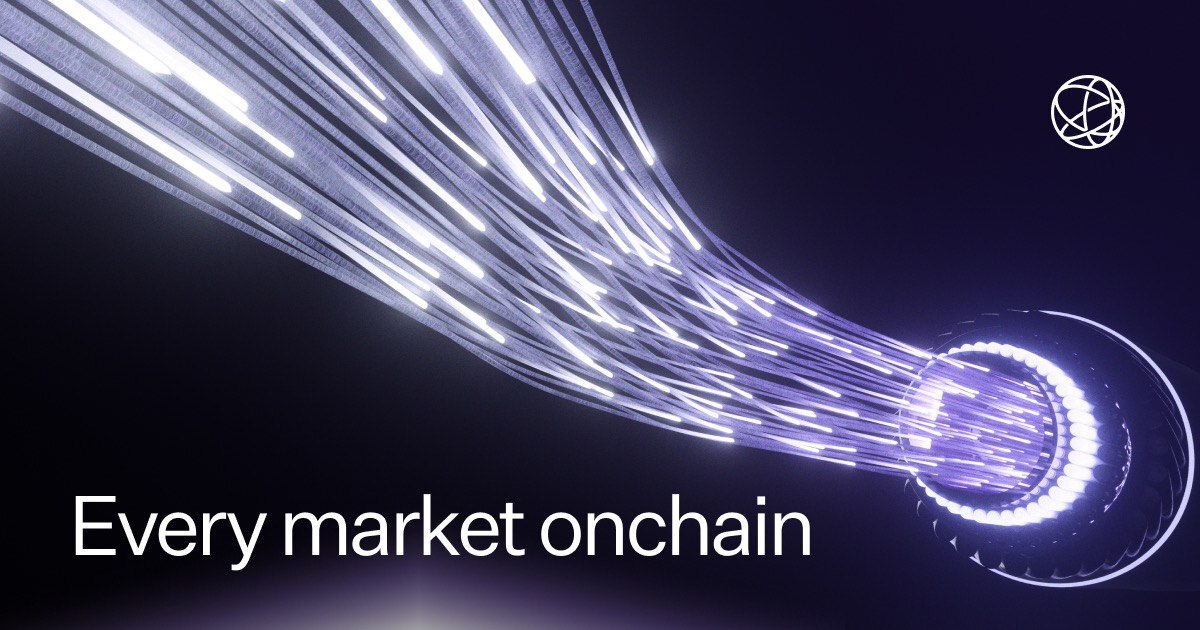
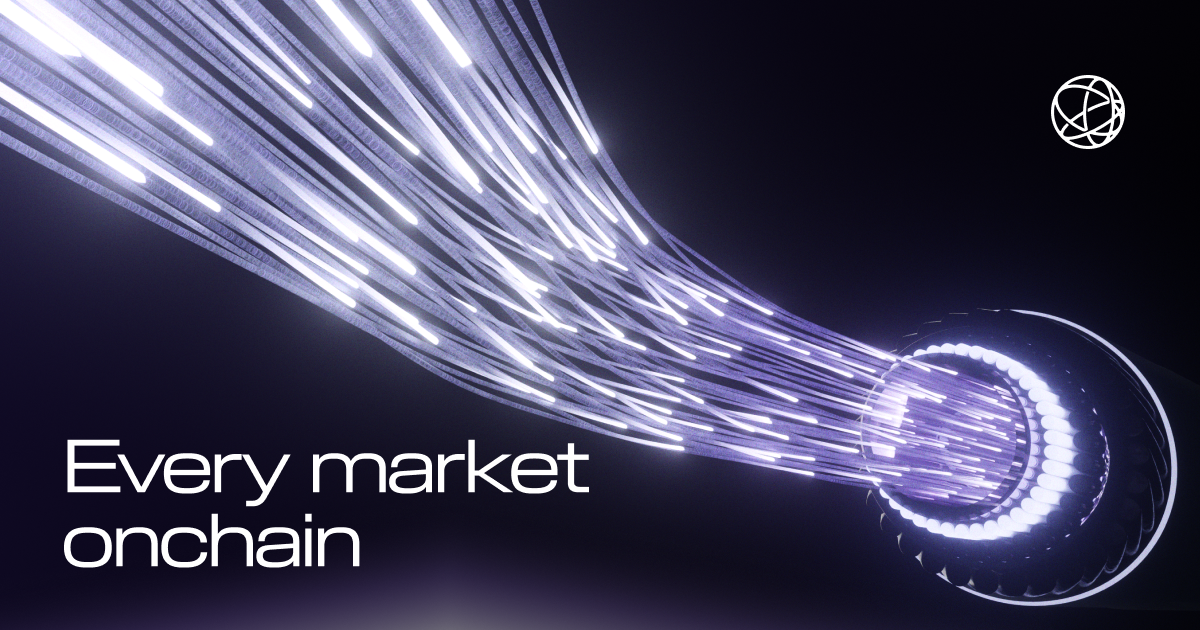
Merge pull request #161 from celestiaorg/feat/og-image-update
Feat/og image update

Pull request: Feat/og image update

diff --git a/src/components/Nav/data.js b/src/components/Nav/data.js
@@ -26,16 +26,16 @@ const MenuData = [
 		type: "dropdown",
 		items: [
 			{
-				name: "Start with the dev portal",
+				name: "Agentic Skill",
+				url: "https://docs.celestia.org/SKILL.md",
+			},
+			{
+				name: "Get Started",
 				url: "/build/",
 			},
 			{
-				name: "Read the docs",
+				name: "Read the Docs",
 				url: "https://docs.celestia.org/",
-			},
-			{
-				name: "View the GitHub repos",
-				url: "https://github.com/celestiaorg",
 			},
 		],
 	},

diff --git a/src/components/FooterNew/data.js b/src/components/FooterNew/data.js
@@ -18,11 +18,7 @@ export const footerLinksNew = [
   {
     column: 3,
     links: [
-      {
-        name: "Brand",
-        url: "https://company-223625.frontify.com/d/JoSwaZS4Mjpj/guidelines#/basics/logos",
-      },
-      { name: "Press", url: "/press/" },
+{ name: "Press", url: "/press/" },
       { name: "Careers", url: "/careers/" },
       { name: "Community", url: "/community/" },
     ],

diff --git a/src/components/HeaderNew/data.js b/src/components/HeaderNew/data.js
@@ -15,6 +15,10 @@ const MenuDataNew = [
 		items: [
 			{
 				name: "Agent Skill",
+				url: "https://docs.celestia.org/SKILL.md",
+			},
+			{
+				name: "Get Started",
 				url: "/build/",
 			},
 			{

diff --git a/src/components/NewHomepage/HomepageHero.js b/src/components/NewHomepage/HomepageHero.js
@@ -67,6 +67,8 @@ const HomepageHero = () => {
           />
           {/* Top gradient fade */}
           <div className="absolute top-0 left-0 right-0 h-[30%] z-[1] bg-gradient-to-b from-[#050208] to-transparent pointer-events-none" />
+          {/* Bottom gradient fade — hides FibreZone button peeking below hero */}
+          <div className="absolute bottom-0 left-0 right-0 h-[25%] z-[1] bg-gradient-to-t from-[#050208] to-transparent pointer-events-none" />
         </div>
       </motion.div>
 

diff --git a/src/components/NewPages/Contact/ContactHero.js b/src/components/NewPages/Contact/ContactHero.js
@@ -66,7 +66,7 @@ const ContactHero = () => {
               <br />
               Touch
             </h1>
-            <Button href="#team" variant="pill-outline" size="pill-md">
+            <Button href="#team" variant="pill-primary" size="pill-md">
               Our Team
             </Button>
           </motion.div>